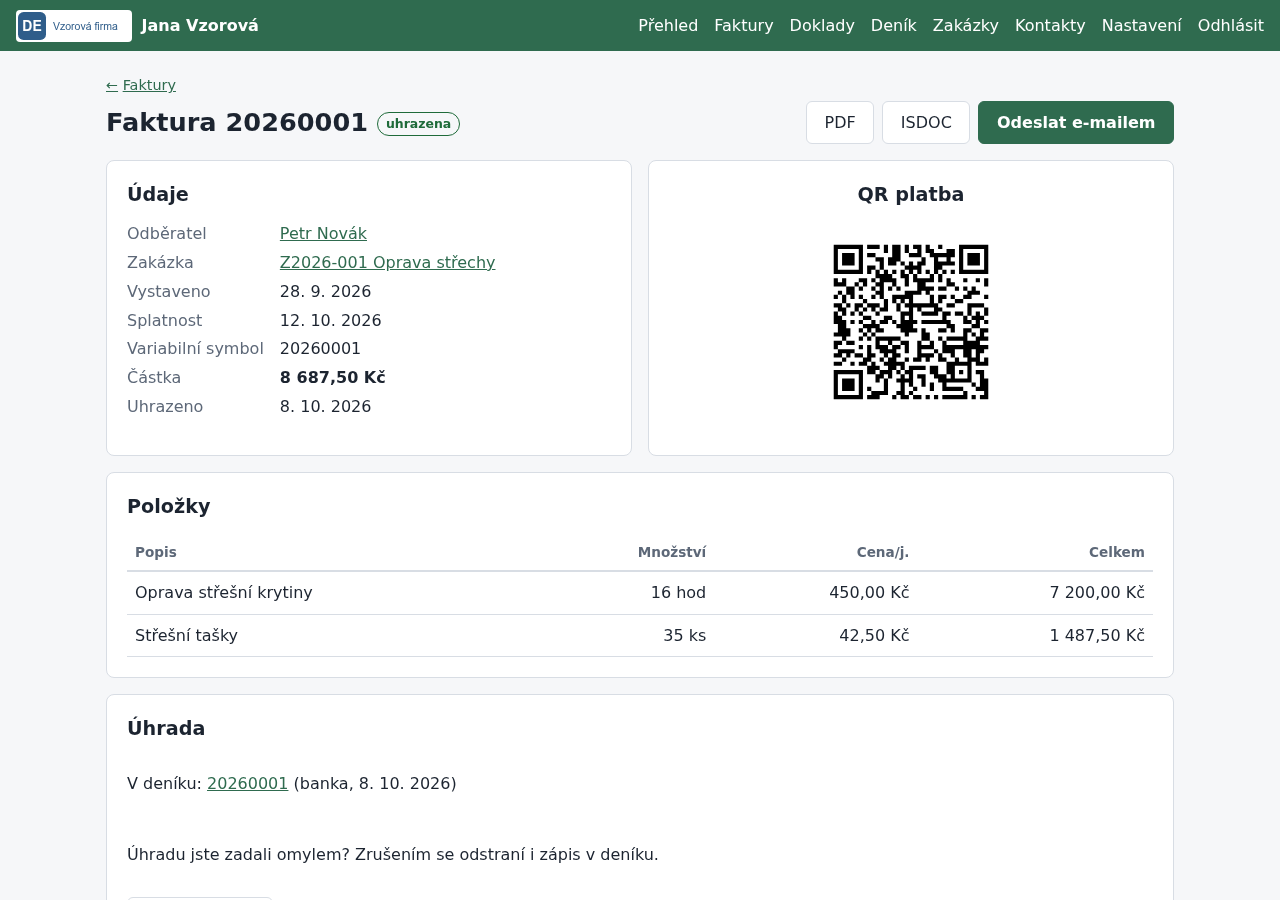
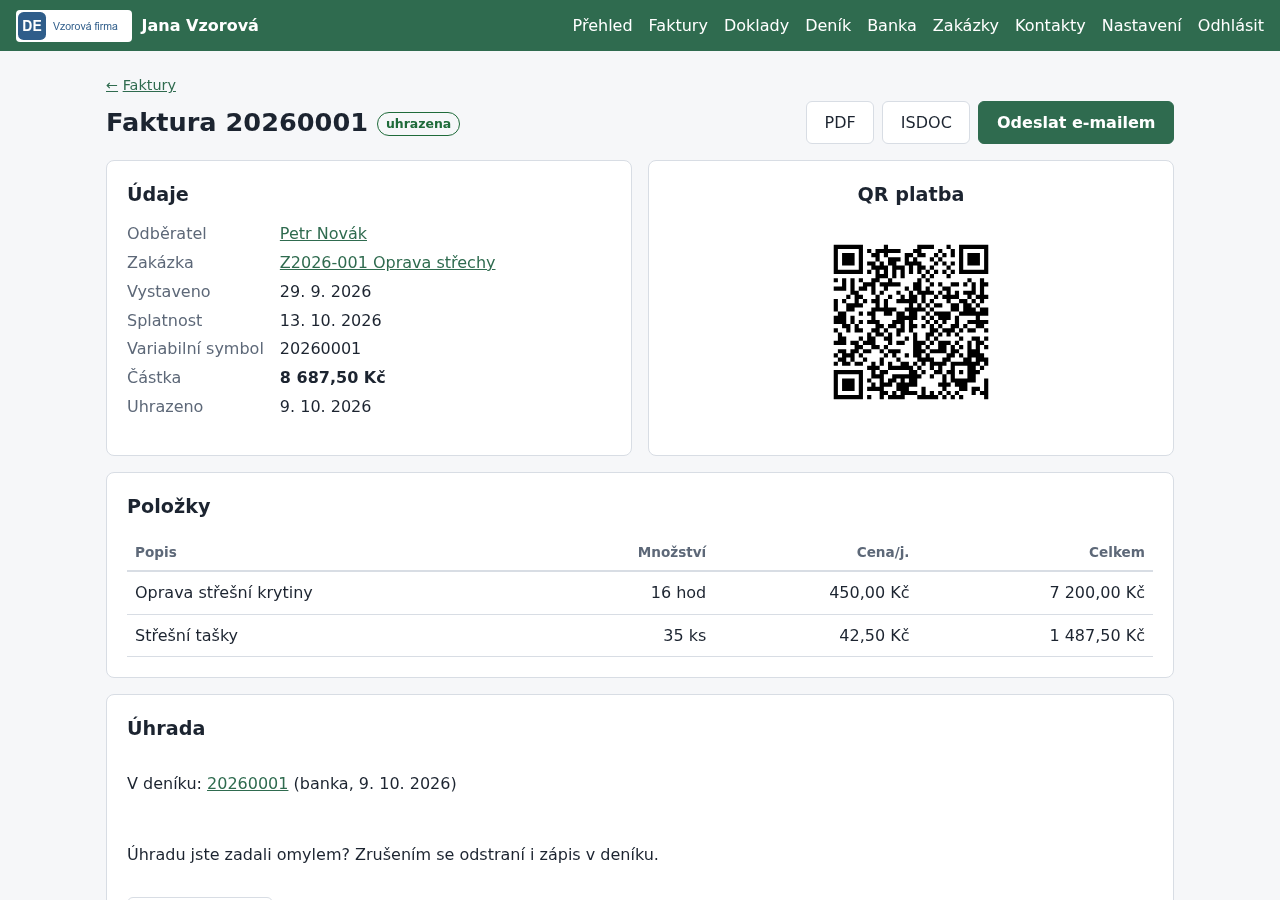
test(phase-3): demo bank data, E2E scenario and screenshots

Changed region(s): [[0.625, 0.2489, 0.7812, 0.4667], [0.4375, 0.0, 0.7188, 0.0311]]

diff --git a/tests/e2e/test_banka.py b/tests/e2e/test_banka.py
@@ -1,0 +1,45 @@
+"""Phase 3 scenario on desktop and iPhone: bank movements from notifications, matching."""
+
+from __future__ import annotations
+
+import re
+
+import pytest
+from playwright.sync_api import Page, expect
+
+from tests.e2e.test_fakturace import login
+
+pytestmark = pytest.mark.e2e
+
+
+def test_match_and_book_movements(page: Page, demo_url: str) -> None:
+    login(page, demo_url)
+    expect(page.get_by_role("link", name=re.compile("Platby ke spárování"))).to_be_visible()
+    page.get_by_role("link", name="Banka", exact=True).click()
+    cards = page.locator("section.movement")
+    expect(cards).to_have_count(4)
+
+    # Cash deposit at an ATM: book as a transfer from the cash desk.
+    deposit = cards.filter(has_text="Vklad na aliančním bankomatu")
+    deposit.locator("summary").click()
+    deposit.get_by_role("button", name="Vklad hotovosti z pokladny").click()
+    expect(page.locator("section.movement")).to_have_count(3)
+
+    # Card payment: book as overhead with a category.
+    card = page.locator("section.movement").filter(has_text="Platba Cvakem")
+    card.locator("summary").click()
+    card.locator("select[name=kategorie]").select_option("19")
+    card.get_by_role("button", name="Zapsat do deníku").click()
+    expect(page.locator("section.movement")).to_have_count(2)
+
+    page.goto(demo_url + "/denik")
+    expect(page.locator("table.list")).to_contain_text("900000000003")
+    expect(page.locator("table.list")).to_contain_text("900000000002")
+    page.goto(demo_url + "/denik/et328")
+    expect(page.get_by_text("Kontrolní součty sedí.")).to_be_visible()
+
+
+def test_mail_page_explains_setup(page: Page, demo_url: str) -> None:
+    login(page, demo_url)
+    page.goto(demo_url + "/posta")
+    expect(page.get_by_text("Stahování pošty není nastavené")).to_be_visible()

diff --git a/scripts/demo.py b/scripts/demo.py
@@ -6,6 +6,7 @@ Used by E2E tests and the screenshot script; can also be run by hand:
 
 from __future__ import annotations
 
+import email
 import shutil
 import socket
 import sys
@@ -13,6 +14,7 @@ import threading
 import time
 from collections.abc import Iterator
 from contextlib import contextmanager
+from email import policy
 from pathlib import Path
 
 import uvicorn
@@ -26,6 +28,8 @@ from typing import ClassVar  # noqa: E402
 
 from app.ares.client import AresSubjekt  # noqa: E402
 from app.auth import PasswordStore  # noqa: E402
+from app.banks.airbank import AirBankParser  # noqa: E402
+from app.banks.book import BankBook  # noqa: E402
 from app.config import FirmaConfig, Settings  # noqa: E402
 from app.contacts import KONTAKTY_SCHEMA  # noqa: E402
 from app.invoices.pdf import render_pdf  # noqa: E402
@@ -189,6 +193,14 @@ def seed(settings: Settings, today: date | None = None) -> None:
     )
     docs.upload((samples / "faktura-sloupce.pdf").read_bytes(), today=today)
     docs.upload((samples / "faktura.isdoc").read_bytes(), today=today)
+
+    # Bank notifications (anonymized Air Bank samples) waiting for matching.
+    book = BankBook(storage, cfg)
+    for eml in sorted((ROOT / "tests" / "fixtures" / "airbank").glob("*.eml")):
+        msg = email.message_from_bytes(eml.read_bytes(), policy=policy.default)
+        movement = AirBankParser().parse_email(msg)  # type: ignore[arg-type]
+        if movement is not None:
+            book.auto_match(book.import_movement(movement)[0])
 
 
 def prepare(target: Path, configured: bool = True) -> Settings:

diff --git a/scripts/screenshots.py b/scripts/screenshots.py
@@ -35,6 +35,7 @@ SHOTS = [
     ("denik.png", "/denik", {"width": 1280, "height": 860}, "light"),
     ("doklad-kontrola.png", "/doklady/{doc}", {"width": 1280, "height": 900}, "light"),
     ("et328.png", "/denik/et328", {"width": 1280, "height": 700}, "light"),
+    ("banka.png", "/banka", {"width": 1280, "height": 900}, "light"),
 ]
 
 
